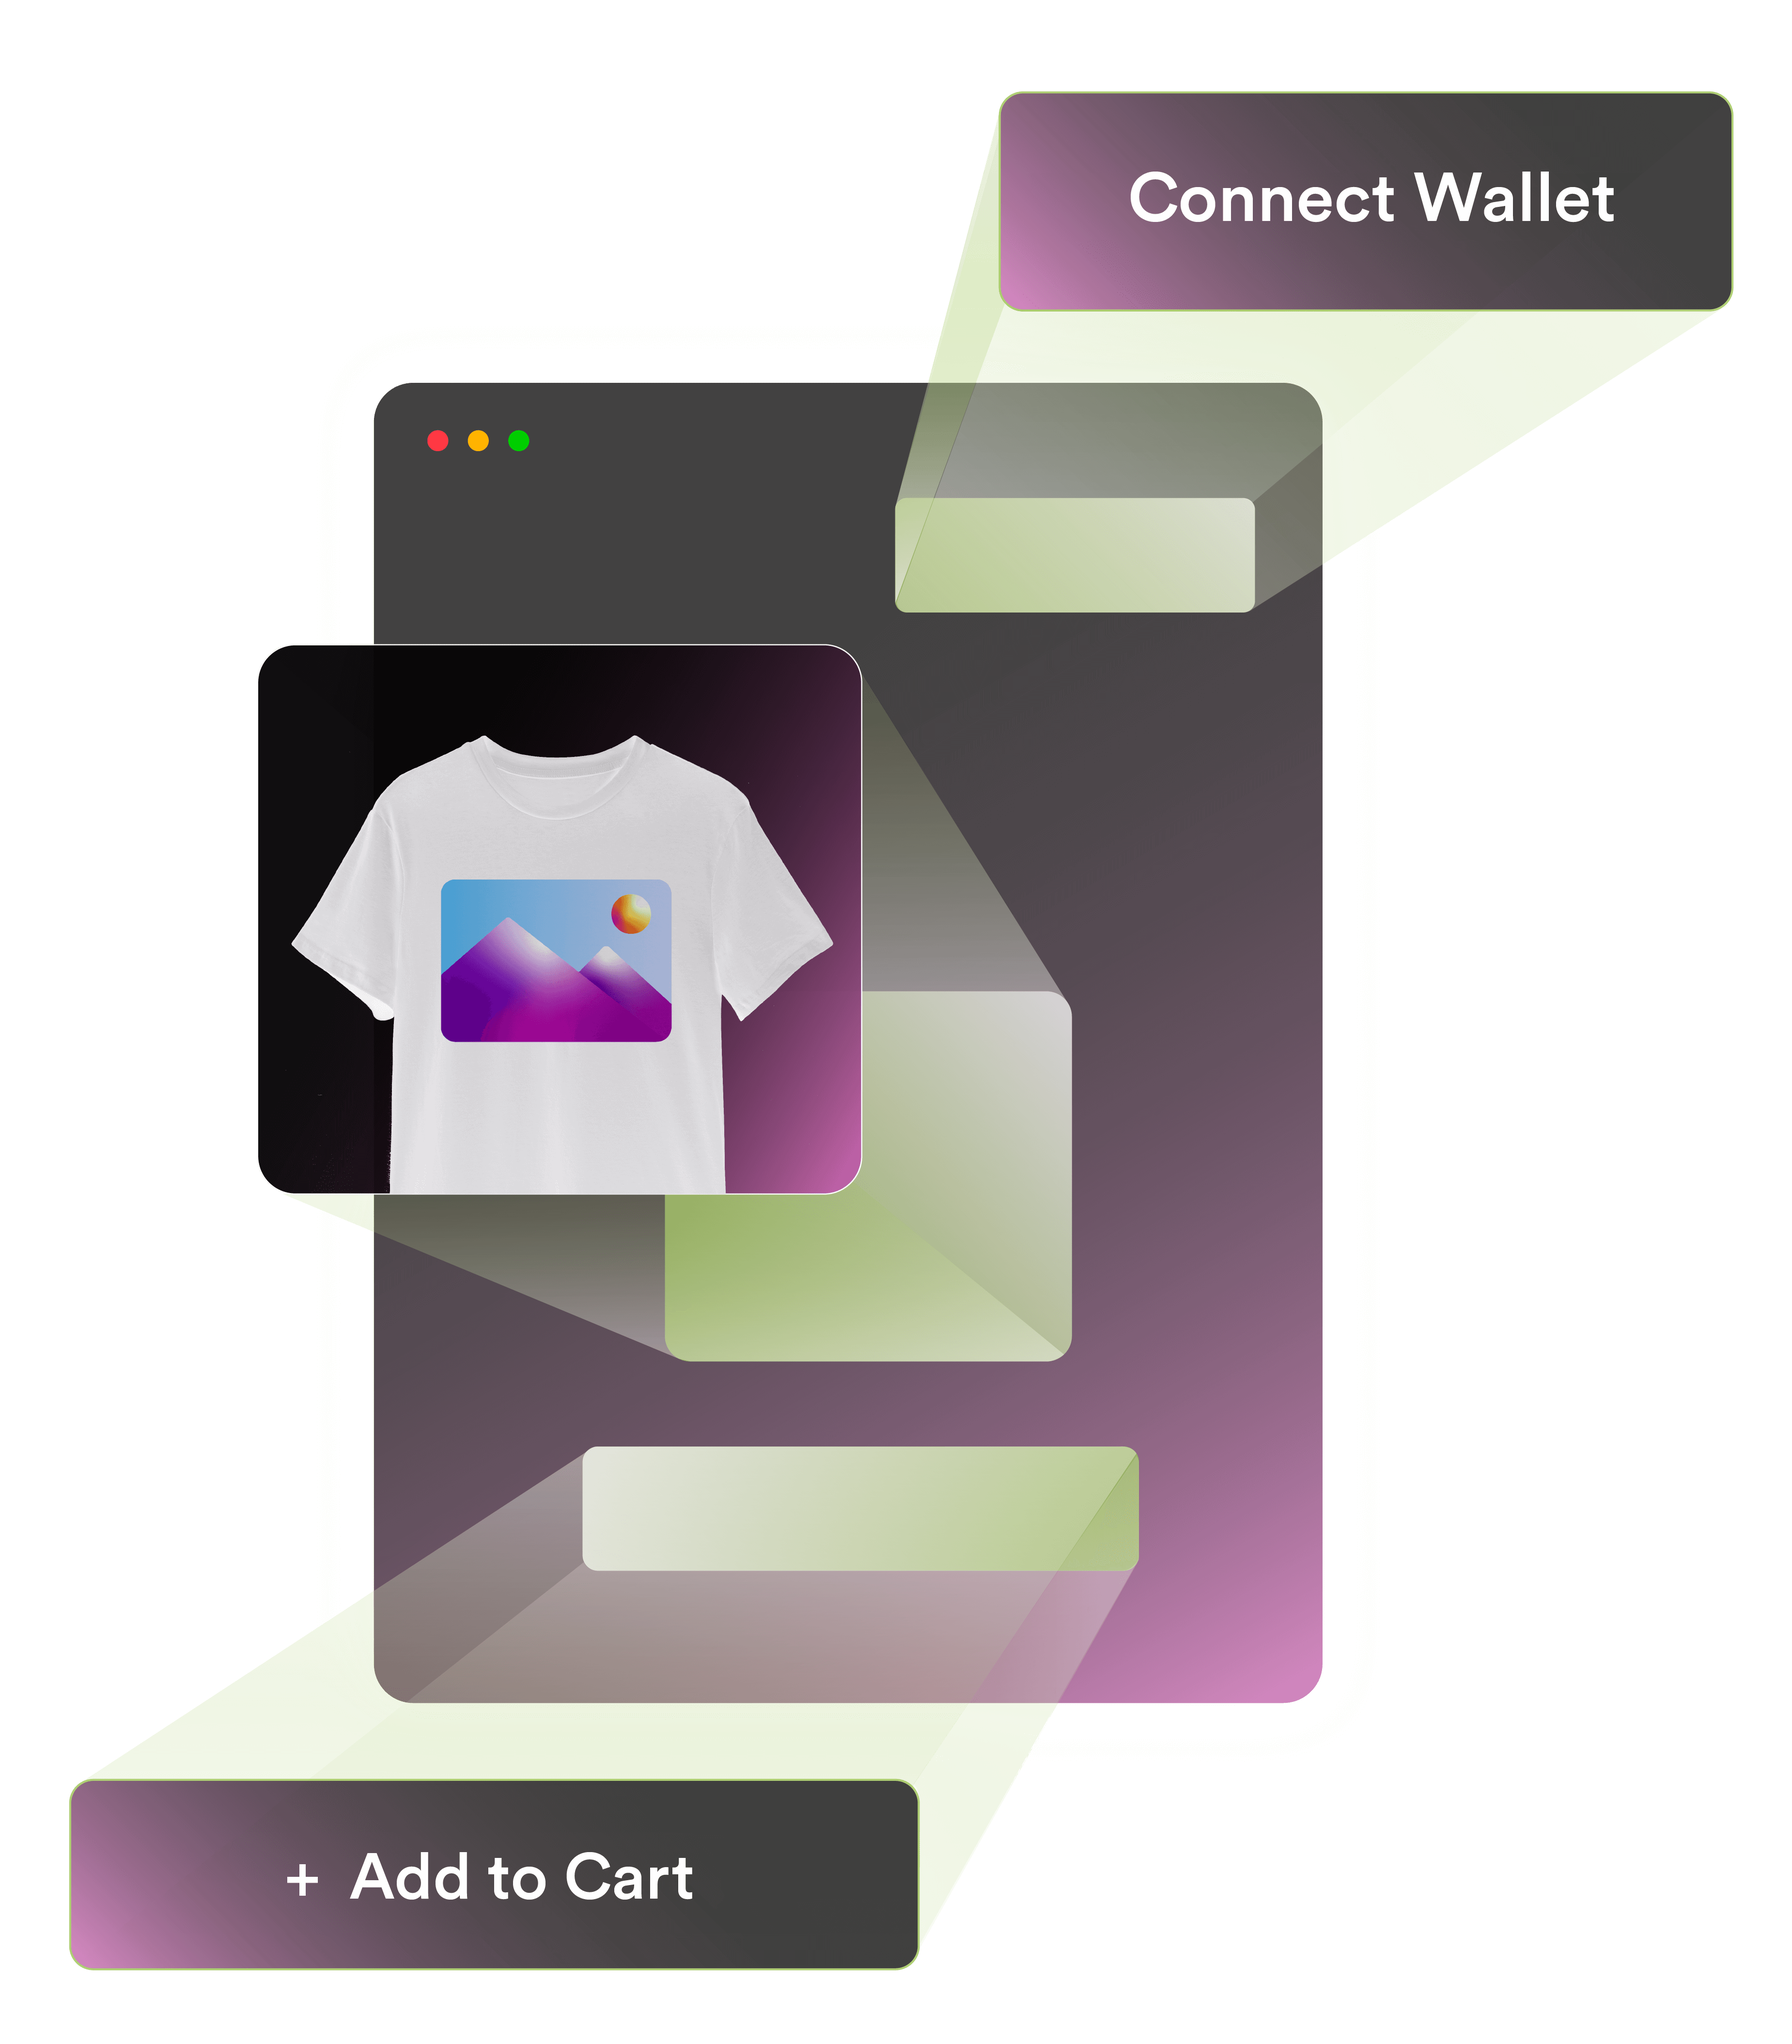
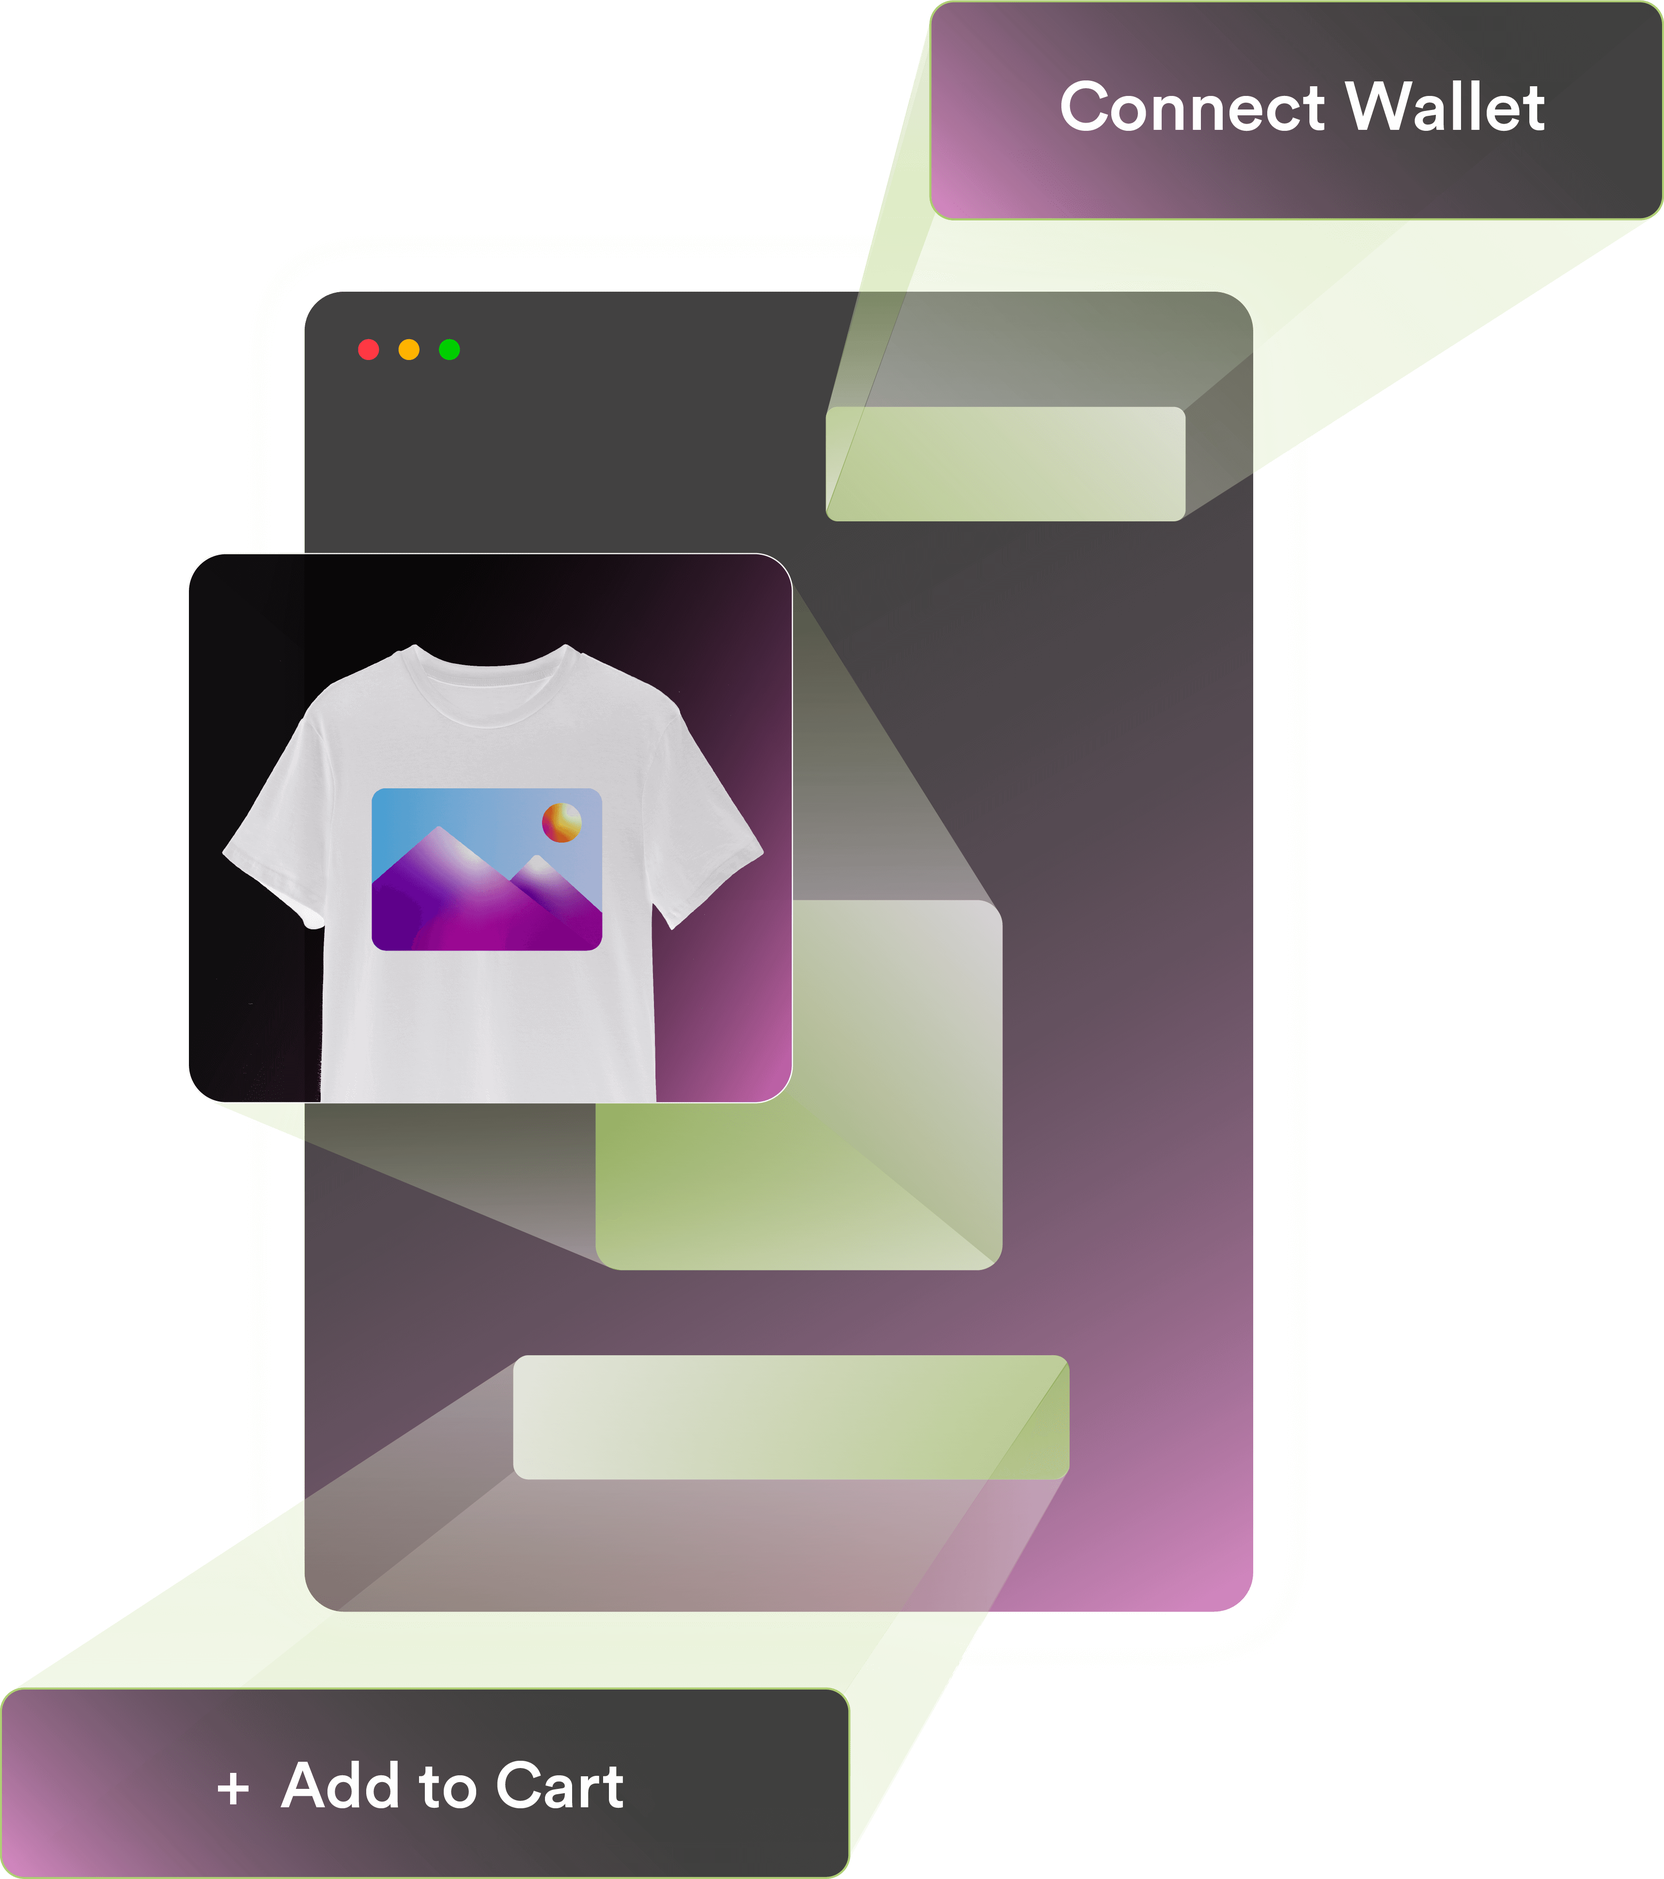
Make image larger

Changed region(s): [[0.0, 0.0, 1.0, 1.0], [0.2803, 0.5616, 0.3115, 0.5928]]

diff --git a/components/product-pages/common/Hero.tsx b/components/product-pages/common/Hero.tsx
@@ -25,6 +25,7 @@ export interface HeroProps {
   image?: StaticImageData;
   type?: "Products" | "Solutions";
   underGetStarted?: ReactElement;
+  largeImage?: boolean;
 }
 
 export const Hero: ComponentWithChildren<HeroProps> = ({
@@ -37,6 +38,7 @@ export const Hero: ComponentWithChildren<HeroProps> = ({
   gradient,
   type = "Products",
   underGetStarted,
+  largeImage = false,
   children,
 }) => {
   return (
@@ -125,11 +127,11 @@ export const Hero: ComponentWithChildren<HeroProps> = ({
         </Flex>
         {image && (
           <Center
-            padding={{ base: "24px", md: "48px" }}
+            padding={{ base: "24px", md: largeImage ? "8px" : "48px" }}
             gridColumnEnd={{ base: undefined, md: "span 3" }}
           >
             <Flex justifyContent={{ base: "center", md: "flex-end" }} w="100%">
-              <AspectRatio ratio={1} maxW={96} w="100%">
+              <AspectRatio ratio={1} w="100%">
                 <ChakraNextImage alt="" src={image} priority />
               </AspectRatio>
             </Flex>

diff --git a/pages/solutions/commerce.tsx b/pages/solutions/commerce.tsx
@@ -78,6 +78,7 @@ const Commerce: ThirdwebNextPage = () => {
             />
           </Flex>
         }
+        largeImage
       >
         <SimpleGrid
           justifyContent="flex-start"
